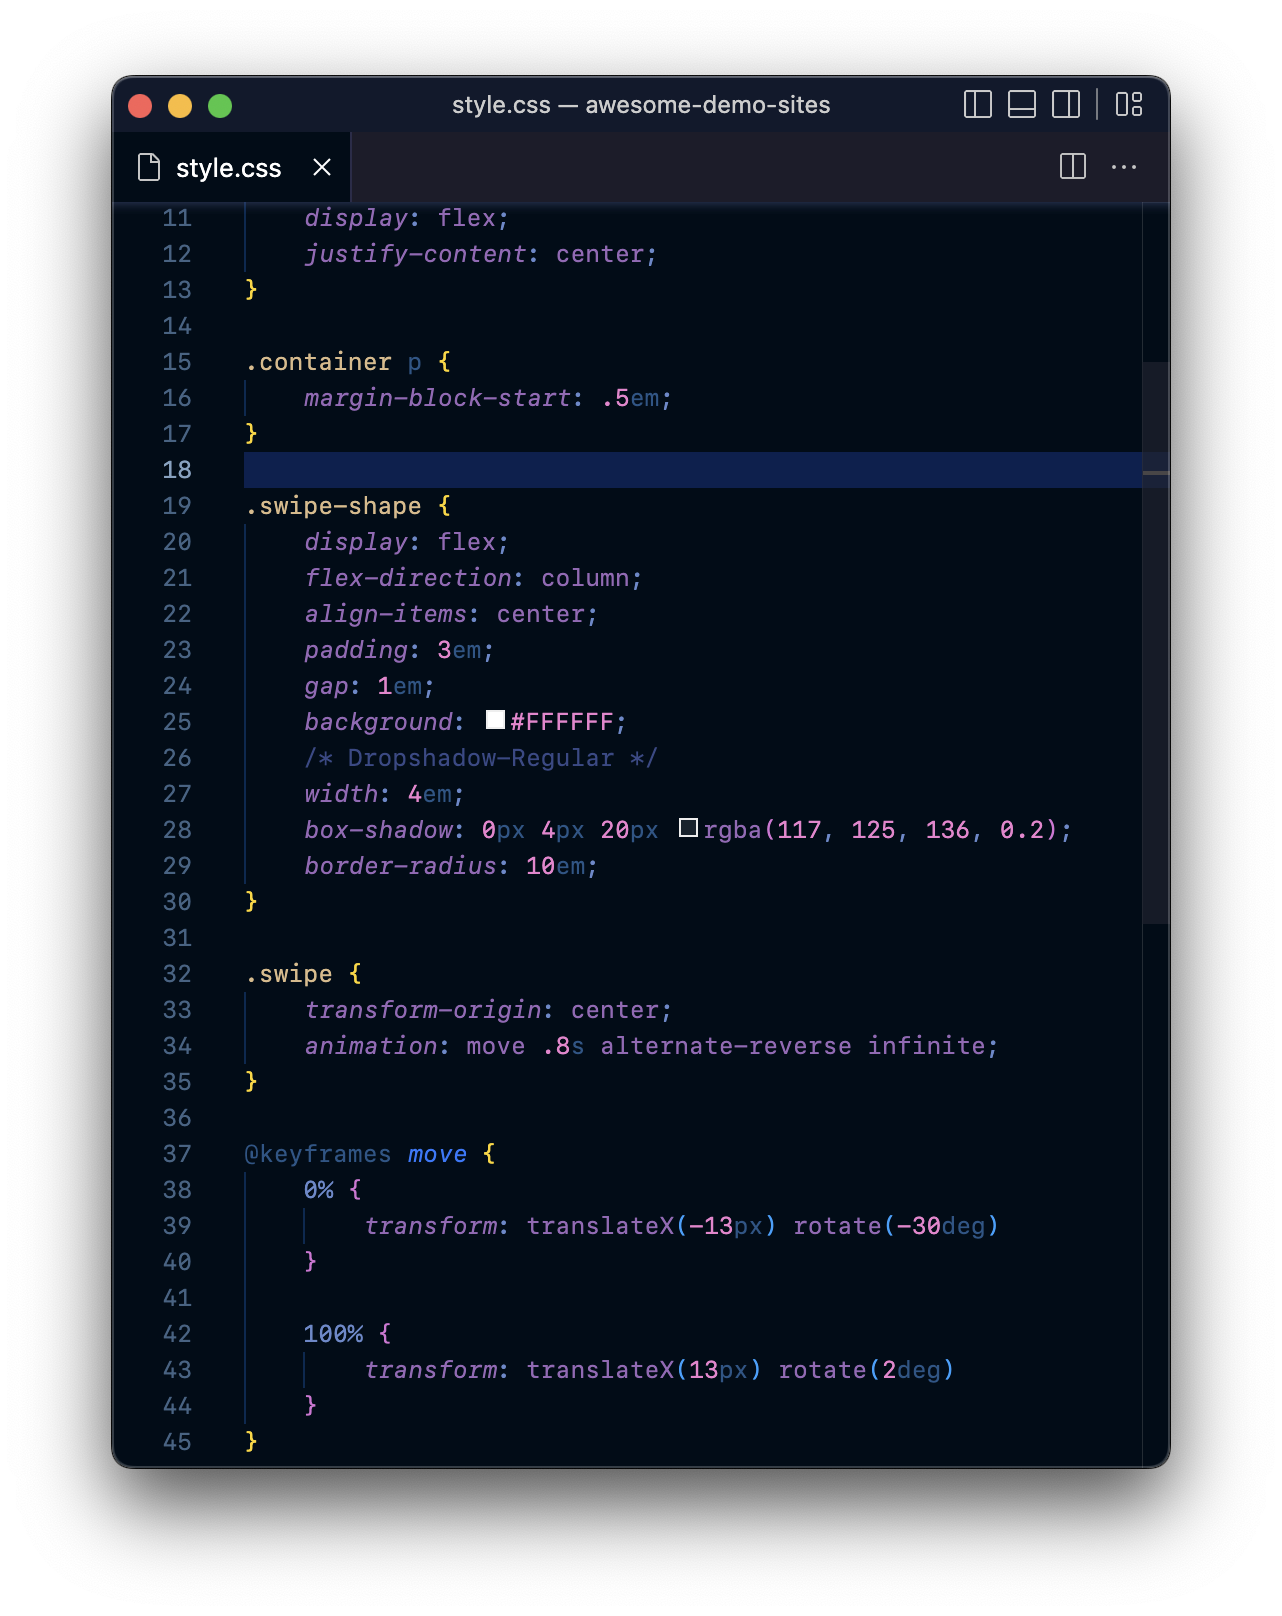
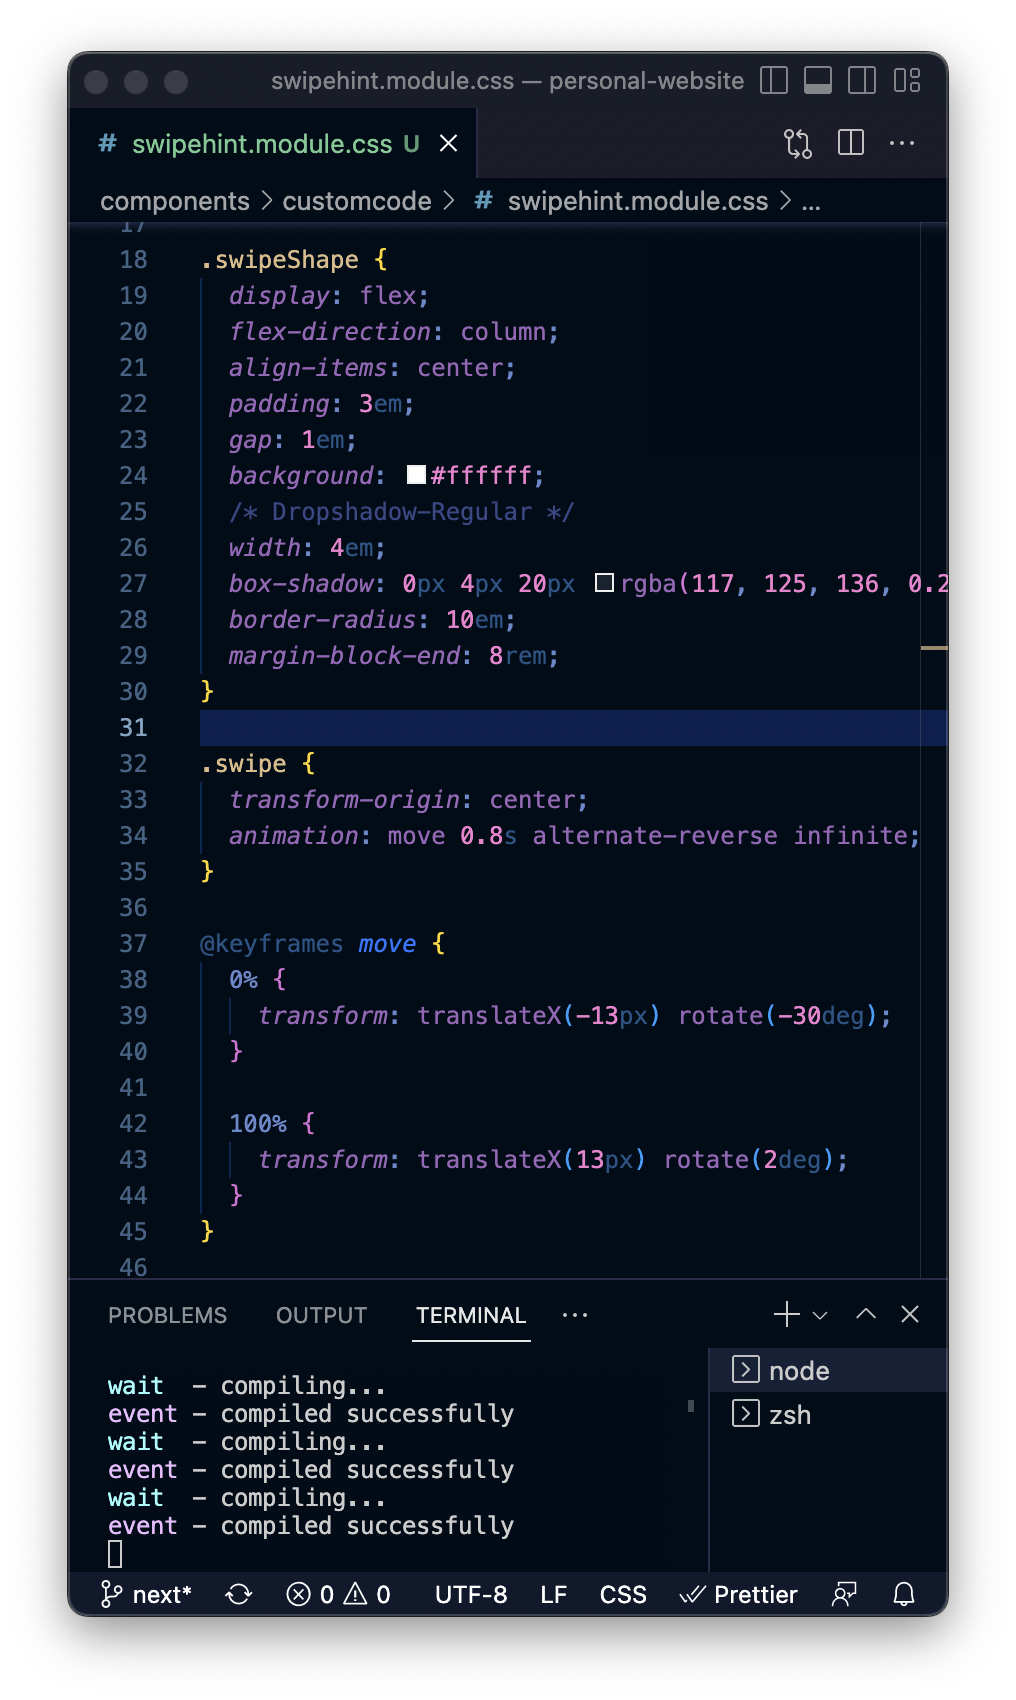
swipe

diff --git a/components/customcode/swipehint.js b/components/customcode/swipehint.js
@@ -1,16 +1,32 @@
-import styles from "../../components/customcode/chameleonscroller.module.css";
+import styles from "../../components/customcode/swipehint.module.css";
 import { useState } from "react";
 
 export default function Chameleonscroller() {
+  const svg = (
+    <svg
+      className={styles.swipe}
+      width="40"
+      height="40"
+      viewBox="-3 0 40 40"
+      fill="none"
+      xmlns="http://www.w3.org/2000/svg"
+    >
+      <path
+        d="M28.467 2.80465C29.4922 3.82986 29.4866 5.49764 28.4545 6.52974L20.4238 14.5605C23.6058 11.3785 24.6986 11.9479 25.7238 12.9731C26.749 13.9983 26.7435 15.6661 25.7114 16.6982L22.9931 19.4164C25.9042 16.5053 27.0521 17.0196 28.0773 18.0448C29.1026 19.07 29.097 20.7378 28.0649 21.7699L25.0206 24.8141C27.8491 21.9857 29.4056 22.0913 30.4308 23.1165C31.4561 24.1418 31.4505 25.8095 30.4184 26.8416L21.2444 36.0157C12.3909 44.4998 -2.49976 31.4998 3.65108 19.0921L10.0109 7.79108C10.7264 6.51969 12.3333 6.06216 13.5999 6.76917C14.8665 7.47617 15.3133 9.07998 14.5978 10.3514C14.0587 11.3094 10.543 17.0161 11.3207 16.2384L24.7419 2.81712C25.774 1.78502 27.4418 1.77944 28.467 2.80465Z"
+        stroke="#2F3137"
+        stroke-width="2.5"
+        stroke-linejoin="round"
+      ></path>
+    </svg>
+  );
+
   return (
     <>
-      <div className={styles.container}>
-        <div>
-          <img src="images/work/case-three/item-4/img-1@2x.png"></img>
-        </div>
-        <div>
-          <img src="images/work/case-three/item-4/img-2@2x.png"></img>
-        </div>
+      <div className={styles.swipe_bg}>
+        <div className={styles.swipeShape}>{svg}</div>
+      </div>
+      <div className={styles.image}>
+        <img src="images/work/case-three/item-4/img-2@2x.png"></img>
       </div>
     </>
   );

diff --git a/components/customcode/swipehint.module.css b/components/customcode/swipehint.module.css
@@ -1,0 +1,45 @@
+.swipe_bg {
+  display: flex;
+  flex-direction: row;
+  border-radius: 1rem;
+  background-image: url("/images/work/case-three/item-4/img-1@2x.png");
+  background-repeat: no-repeat;
+  background-size: cover;
+  align-items: center;
+  justify-content: center;
+  width: 390px;
+  height: 844px;
+}
+
+.image {
+  max-width: 420px;
+}
+
+.swipeShape {
+  display: flex;
+  flex-direction: column;
+  align-items: center;
+  padding: 3em;
+  gap: 1em;
+  background: #ffffff;
+  /* Dropshadow-Regular */
+  width: 4em;
+  box-shadow: 0px 4px 20px rgba(117, 125, 136, 0.2);
+  border-radius: 10em;
+  margin-block-end: 8rem;
+}
+
+.swipe {
+  transform-origin: center;
+  animation: move 0.8s alternate-reverse infinite;
+}
+
+@keyframes move {
+  0% {
+    transform: translateX(-13px) rotate(-30deg);
+  }
+
+  100% {
+    transform: translateX(13px) rotate(2deg);
+  }
+}
